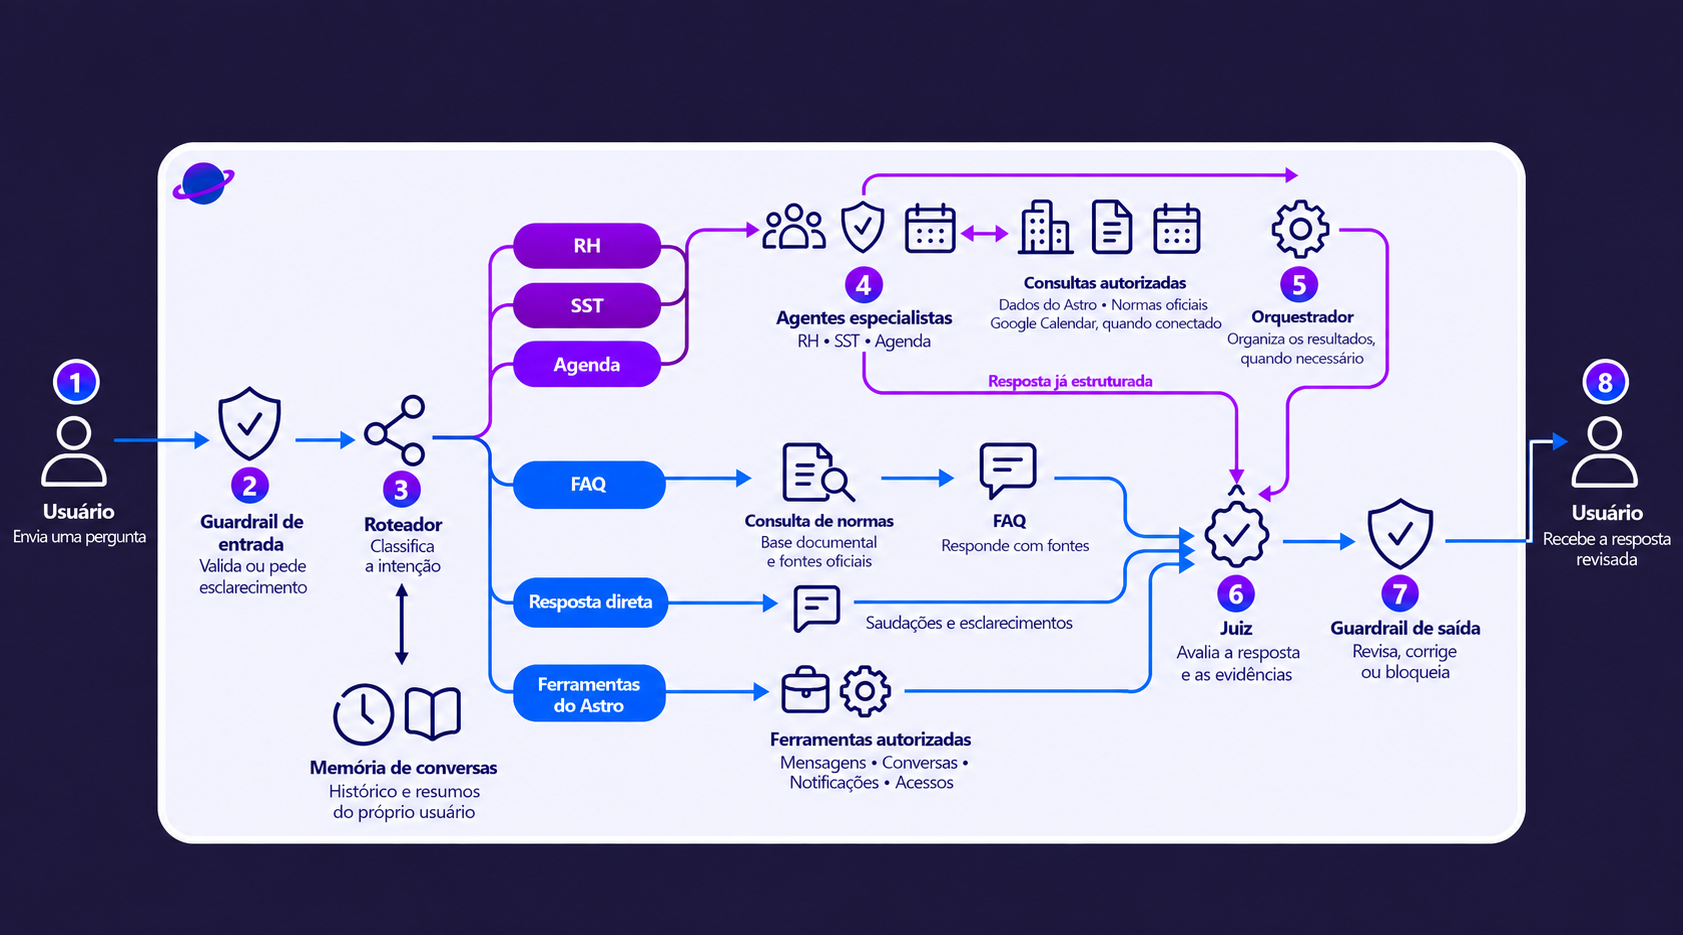
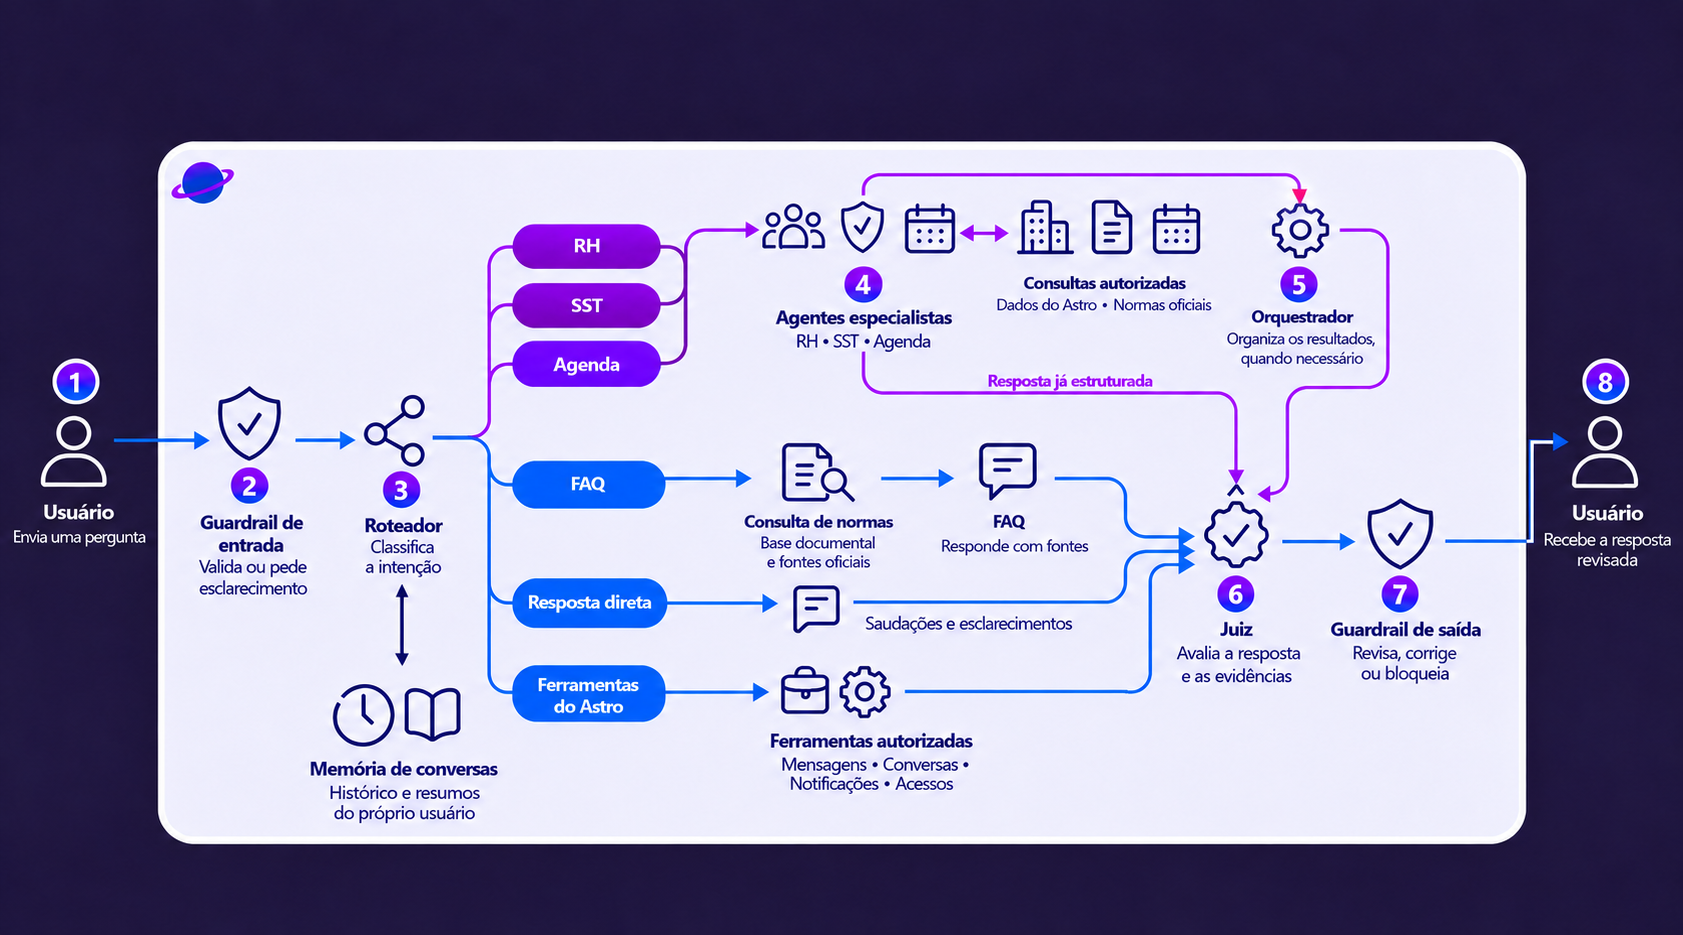
docs(SCRUM-167): corrigir diagrama e documentar fluxo multiagente

diff --git a/docs/arquitetura/conferencia-arquitetura.md b/docs/arquitetura/conferencia-arquitetura.md
@@ -1,0 +1,33 @@
+# Conferência da arquitetura multiagente
+
+A imagem usada no README representa o fluxo principal implementado em `app/modules/chat/graph.py`. Revisão de código conferida: `944dd3f21c5dff703939ec6251b9469dd0998f07`.
+
+![Arquitetura de alto nível](astro-ia.png)
+
+## Correspondência com a implementação
+
+| Etapa | Implementação e responsabilidade |
+| --- | --- |
+| Entrada | FastAPI autentica a requisição; `guardrail_entrada` valida a mensagem antes do roteamento. |
+| Roteador | Classifica a intenção e seleciona o fluxo. Jev classifica; as responsabilidades que exigem texto ou argumentos estruturados permanecem separadas. |
+| Memória | Histórico da sessão no MongoDB e recuperação de resumos no Qdrant, vinculados ao usuário autenticado. |
+| Especialistas | Subgrafos de RH, SST e Agenda usam agentes LangChain e decisões estruturadas. A aplicação executa as ferramentas com autorização. |
+| FAQ | Consulta documental e resposta com fontes. Consultas de normas também podem ocorrer pelo especialista SST. |
+| Ferramentas do Astro | Consultas operacionais, conversas, notificações e acessos seguem fluxos autorizados; a decisão do modelo não concede permissões. |
+| Orquestrador | Organiza a resposta quando necessário. Uma candidata já estruturada pode seguir diretamente ao Juiz. |
+| Juiz e saída | O Juiz avalia candidata e evidências. O guardrail de saída aplica as verificações correspondentes antes da liberação. |
+
+## Limites do desenho
+
+- Agenda consulta os eventos autorizados do Astro. Não há integração com Google Calendar nesse fluxo; a imagem foi corrigida para remover essa indicação.
+- A seta superior liga especialistas ao Orquestrador. A alternativa de resposta estruturada segue diretamente ao Juiz.
+- O desenho resume o fluxo principal. Há saídas antecipadas com mensagens fixas da aplicação, como bloqueios e esclarecimentos, que não percorrem todos os nós.
+- Nem todo nó representa uma chamada adicional ao modelo. Validações determinísticas e candidatas operacionais estruturadas evitam chamadas desnecessárias.
+- O roteamento seleciona o especialista necessário; o desenho não significa execução simultânea dos três especialistas.
+- Geração de PDF e montagem/persistência dos blocos são extensões do fluxo. A geração autorizada do arquivo ocorre após as validações correspondentes.
+
+## Validação e alcance
+
+151 testes passaram para checkpoints, memória, contexto dos guardrails, regressões do Jev, prompts e reprodução de conversas, com três avisos das dependências/execução local. A imagem também foi revisada visualmente.
+
+Essa conferência confirma a estrutura do fluxo, não a resolução de todas as falhas funcionais observadas na homologação. Problemas de consultas, apresentação e aprovação precisam de evidências e regressões próprias. Esta atualização de documentação não altera permissões, prompts ou comportamento da API e não publica uma nova versão em produção.
